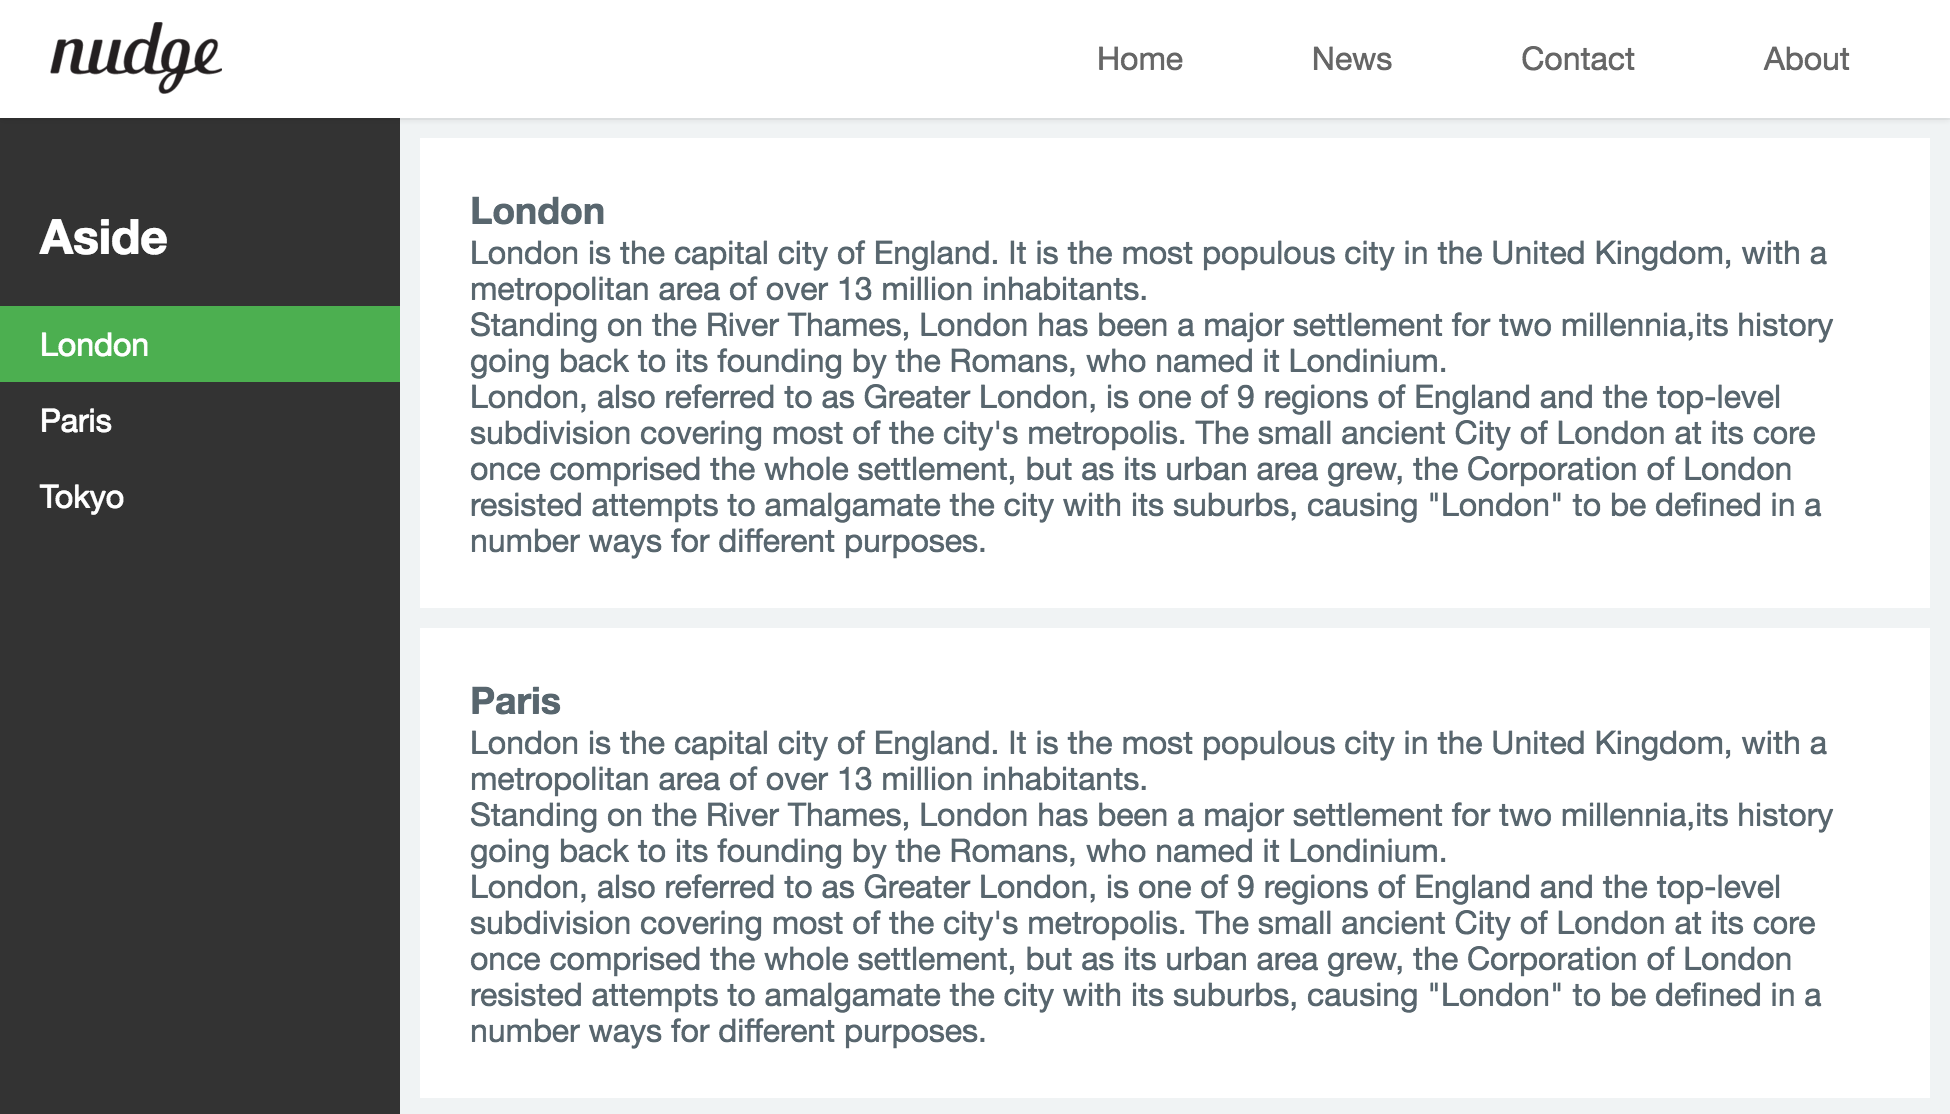
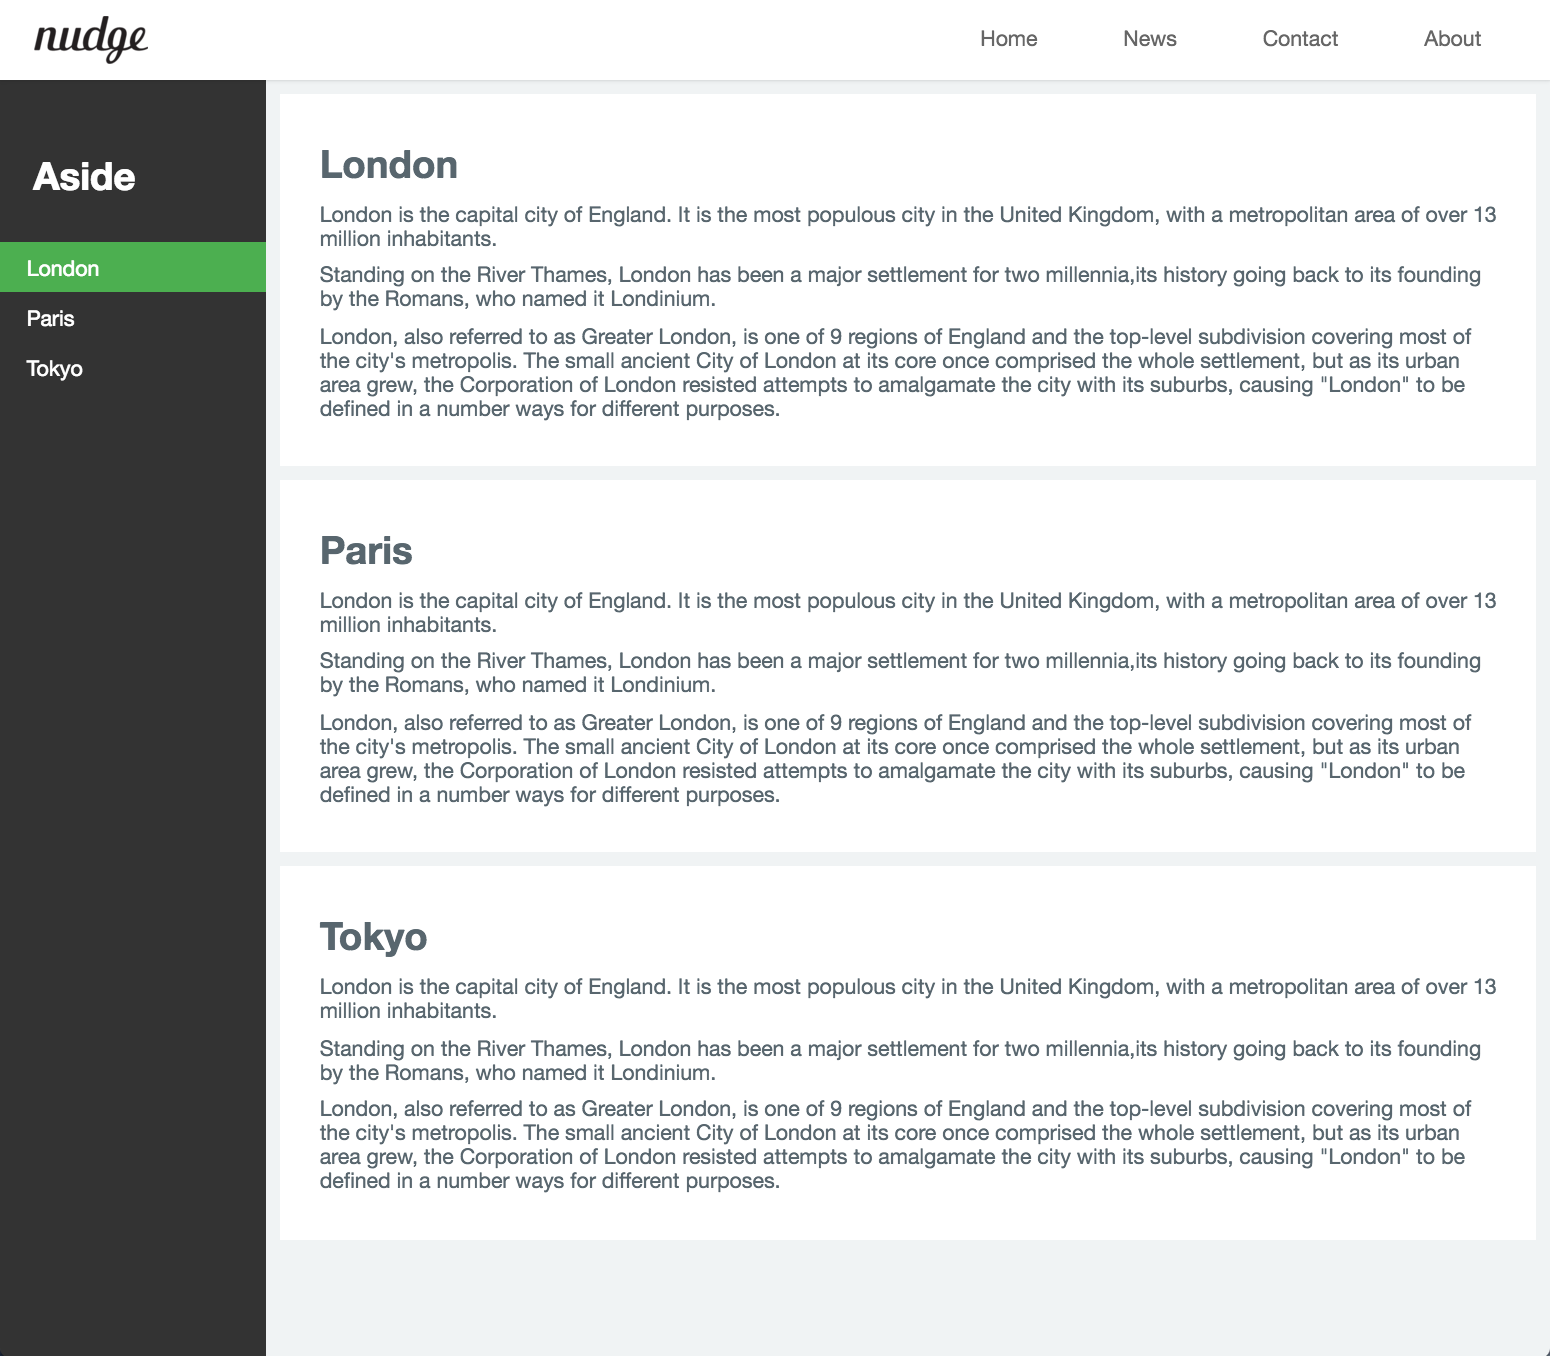
.

diff --git a/_posts/2016-01-06-CSS3-Layout.md b/_posts/2016-01-06-CSS3-Layout.md
@@ -396,113 +396,19 @@ article {
 }
 ```
 
-![layout-practice-10](/img/layout-practice-10.png)
-
-
-
-
-
-
-
-
-
-section, aside 영역에 %로 width를 정의하여 viewport가 작아져도 문제가 발생하지 않도록 한다. 또한 `box-sizing: border-box;`을 부여하여 %로 width를 정의할 때 영역이 예상보다 커지는 것을 방지한다.
+heading tag(h1)의 크기가 위치한 영역에 따라 다름에 주의하여야 한다. 즉, header내의 h1은 section내의 h1 보다 크다. 이것을  방지하기 위해서는 다음을 Rest CSS에 추가할 필요가 있다. 크기는 적당히 조절하면 된다. 다른 텍스트 태그의 style도 정리한다.
 
 ```css
-#content-wrap {
-  width: 100%;
-  color: white;
-  background-color: #def0c2;
-  overflow: hidden;
+h1 { font-size: 1.8em; }
+h1, h2, h3, h4, h5, h6, p {
+  margin: 10px 5px;
 }
-section {
-  float: left;
-  box-sizing: border-box;
-  width: 73%;
-  padding: 10px;
-  background-color: #59b1f6;
-}
-aside {
-  float: right;
-  box-sizing: border-box;
-  width: 25%;
-  padding: 10px;
-  background-color: #c13100;
-}
-```
-
-h1 tag의 크기가 위치한 영역에 따라 다름에 주의하여야 한다. 즉, header내의 h1은 section내의 h1 보다 크다. 이것을  방지하기 위해서는 다음을 Rest CSS에 추가할 필요가 있다. 크기는 적당히 조절하면 된다.
-
-```css
-h1 { font-size: 1.7em; }
 ```
 
 자세한 사항은 [MDN](https://developer.mozilla.org/en-US/docs/Web/Guide/HTML/Using_HTML_sections_and_outlines) 참조하기 바란다.
 
 
-```html
-<!DOCTYPE html>
-<html>
-  <head>
-    <style>
-      /*Simple Reset CSS Code*/
-      * { margin: 0; padding: 0; }
-      body {
-        font-family: Verdana, Arial, Helvetica, sans-serif;
-        max-width: 960px;
-        margin: 0 auto;
-      }
-      li { list-style: none; }
-      a { text-decoration: none; }
-      h1, h2, h3, h4, h5, h6, p {
-        margin: 10px 5px;
-      }
-      h1 { font-size: 1.7em; }
-
-      /*contents*/
-      #content-wrap {
-        width: 100%;
-        color: white;
-        background-color: #def0c2;
-        overflow: hidden;
-      }
-      section {
-        float: left;
-        box-sizing: border-box;
-        width: 73%;
-        padding: 10px;
-        background-color: #59b1f6;
-      }
-      aside {
-        float: right;
-        box-sizing: border-box;
-        width: 25%;
-        height: 100%;
-        padding: 10px;
-        background-color: #c13100;
-      }
-    </style>
-  </head>
-  <body>
-    <div id="content-wrap">
-      <section>
-        <h1>London</h1>
-        <p>London is the capital city of England. It is the most populous city in the United Kingdom, with a metropolitan area of over 13 million inhabitants.</p>
-        <p>Standing on the River Thames, London has been a major settlement for two millennia,its history going back to its founding by the Romans, who named it Londinium.</p>
-        <p>London, also referred to as Greater London, is one of 9 regions of England and the top-level subdivision covering most of the city's metropolis. The small ancient City of London at its core once comprised the whole settlement, but as its urban area grew, the Corporation of London resisted attempts to amalgamate the city with its suburbs, causing "London" to be defined in a number ways for different purposes.</p>
-      </section>
-      <aside>
-        <h1>Aside</h1>
-        <ul>
-          <li>London</li>
-          <li>Paris</li>
-          <li>Tokyo</li>
-        </ul>
-      </aside>
-    </div>
-  </body>
-</html>
-```
+![layout-practice-10](/img/layout-practice-10.png)
 
 ## 1.3 footer
 
